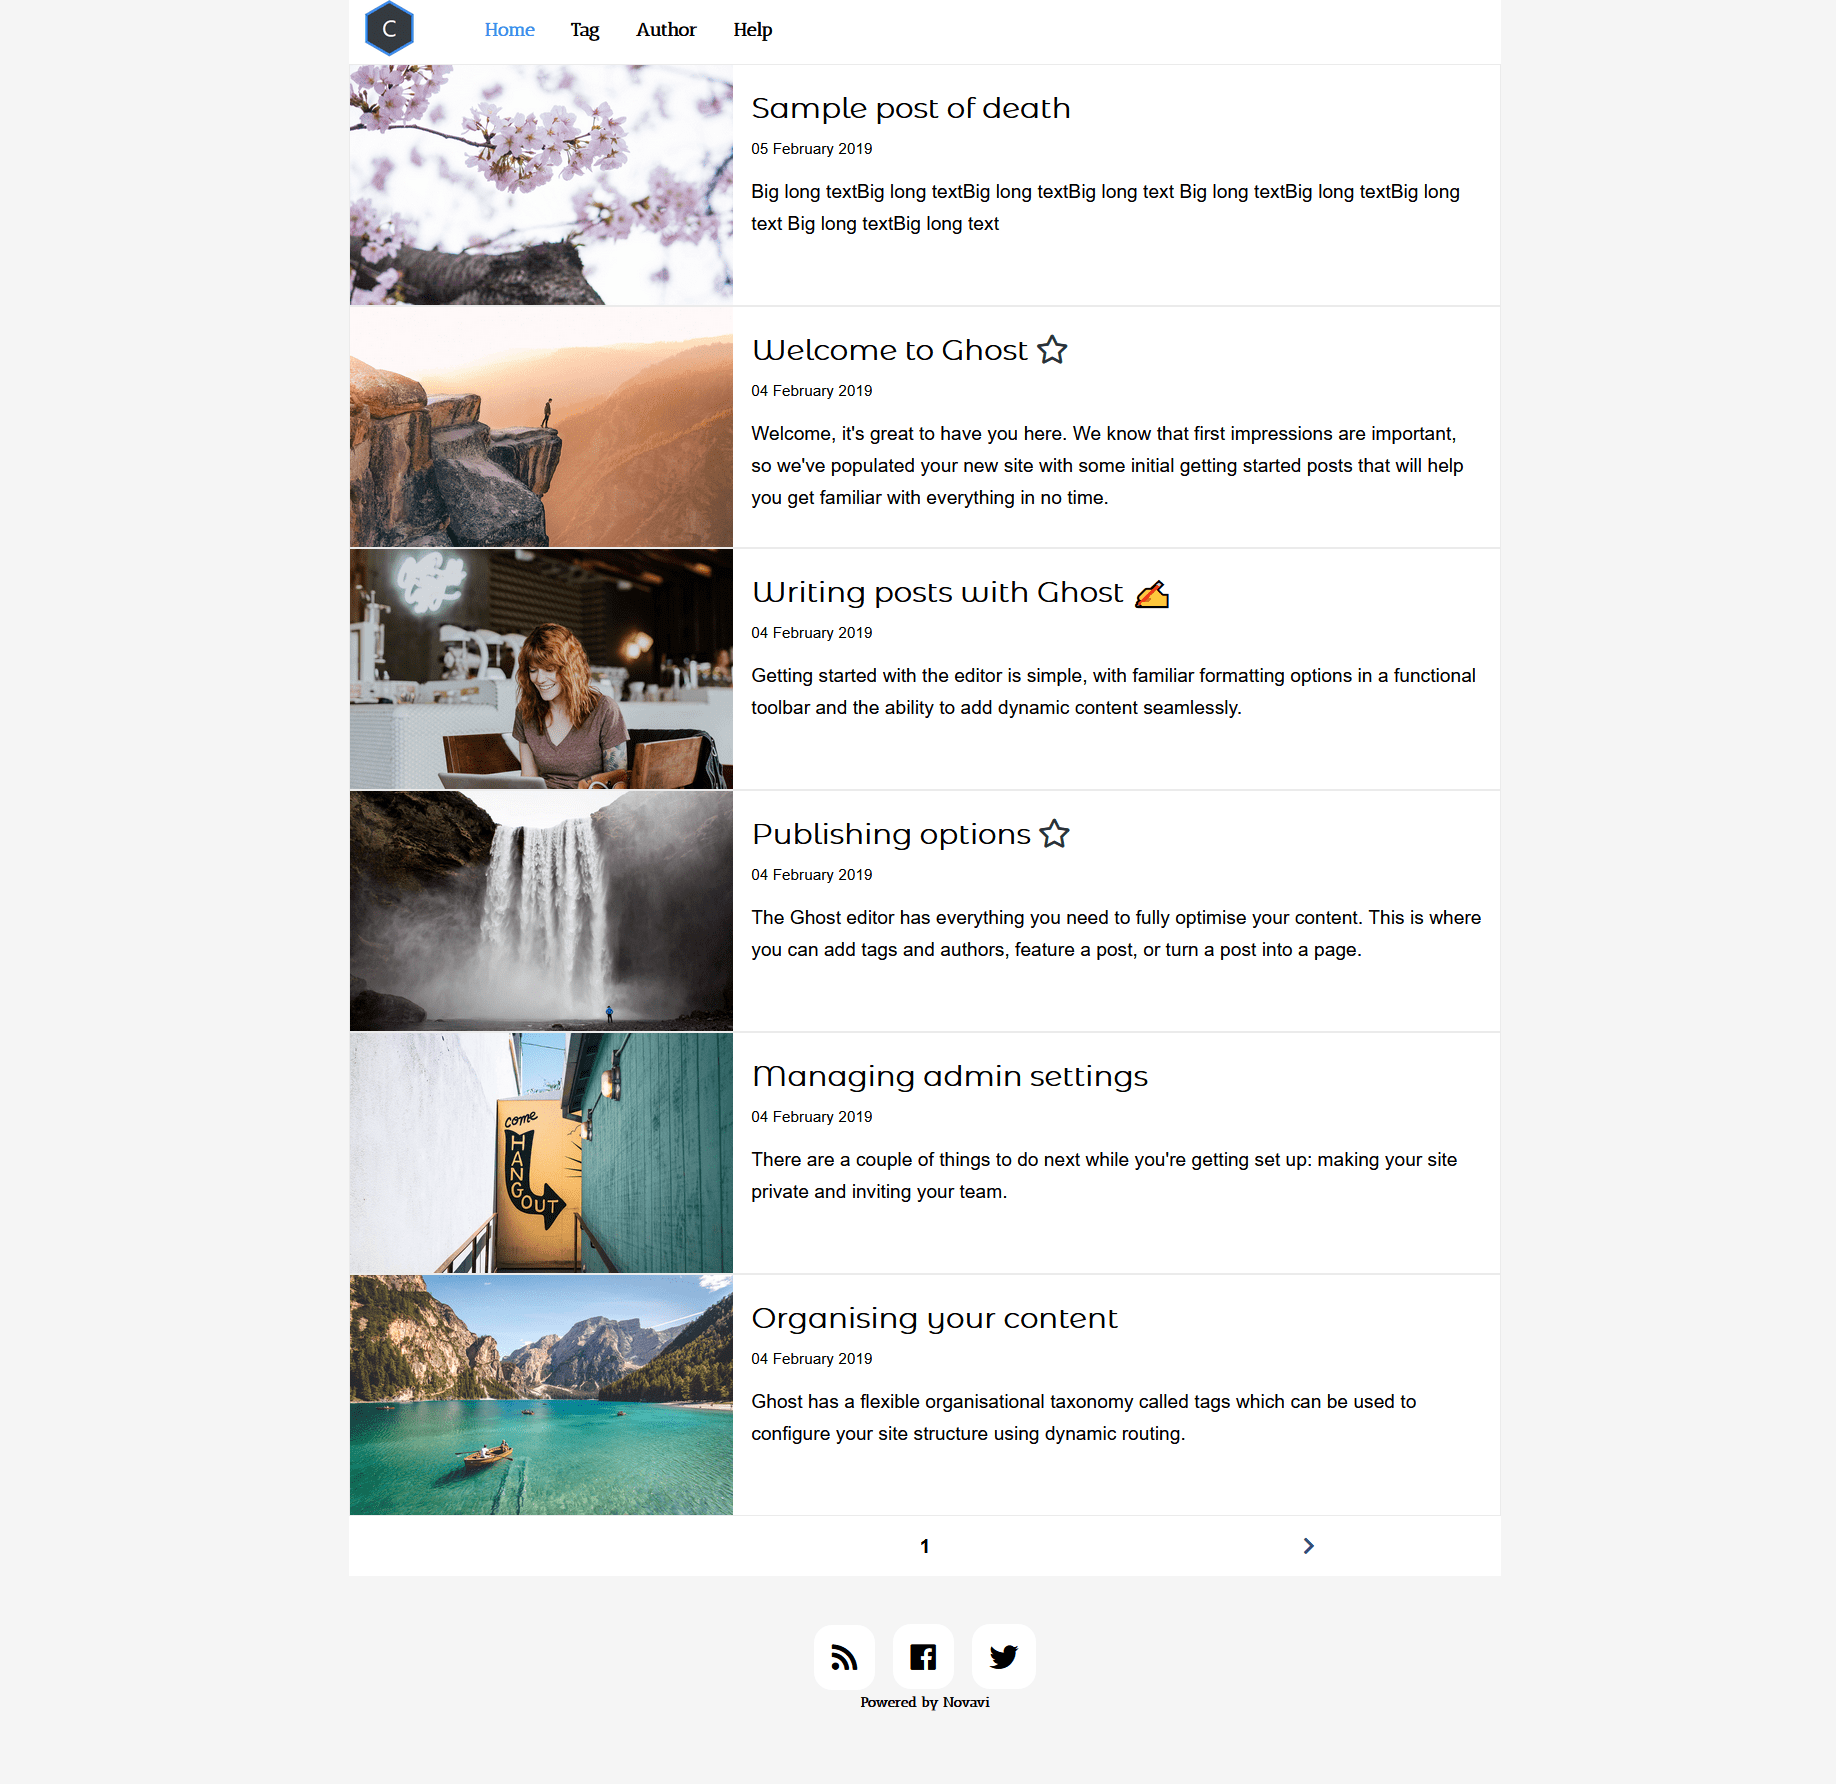
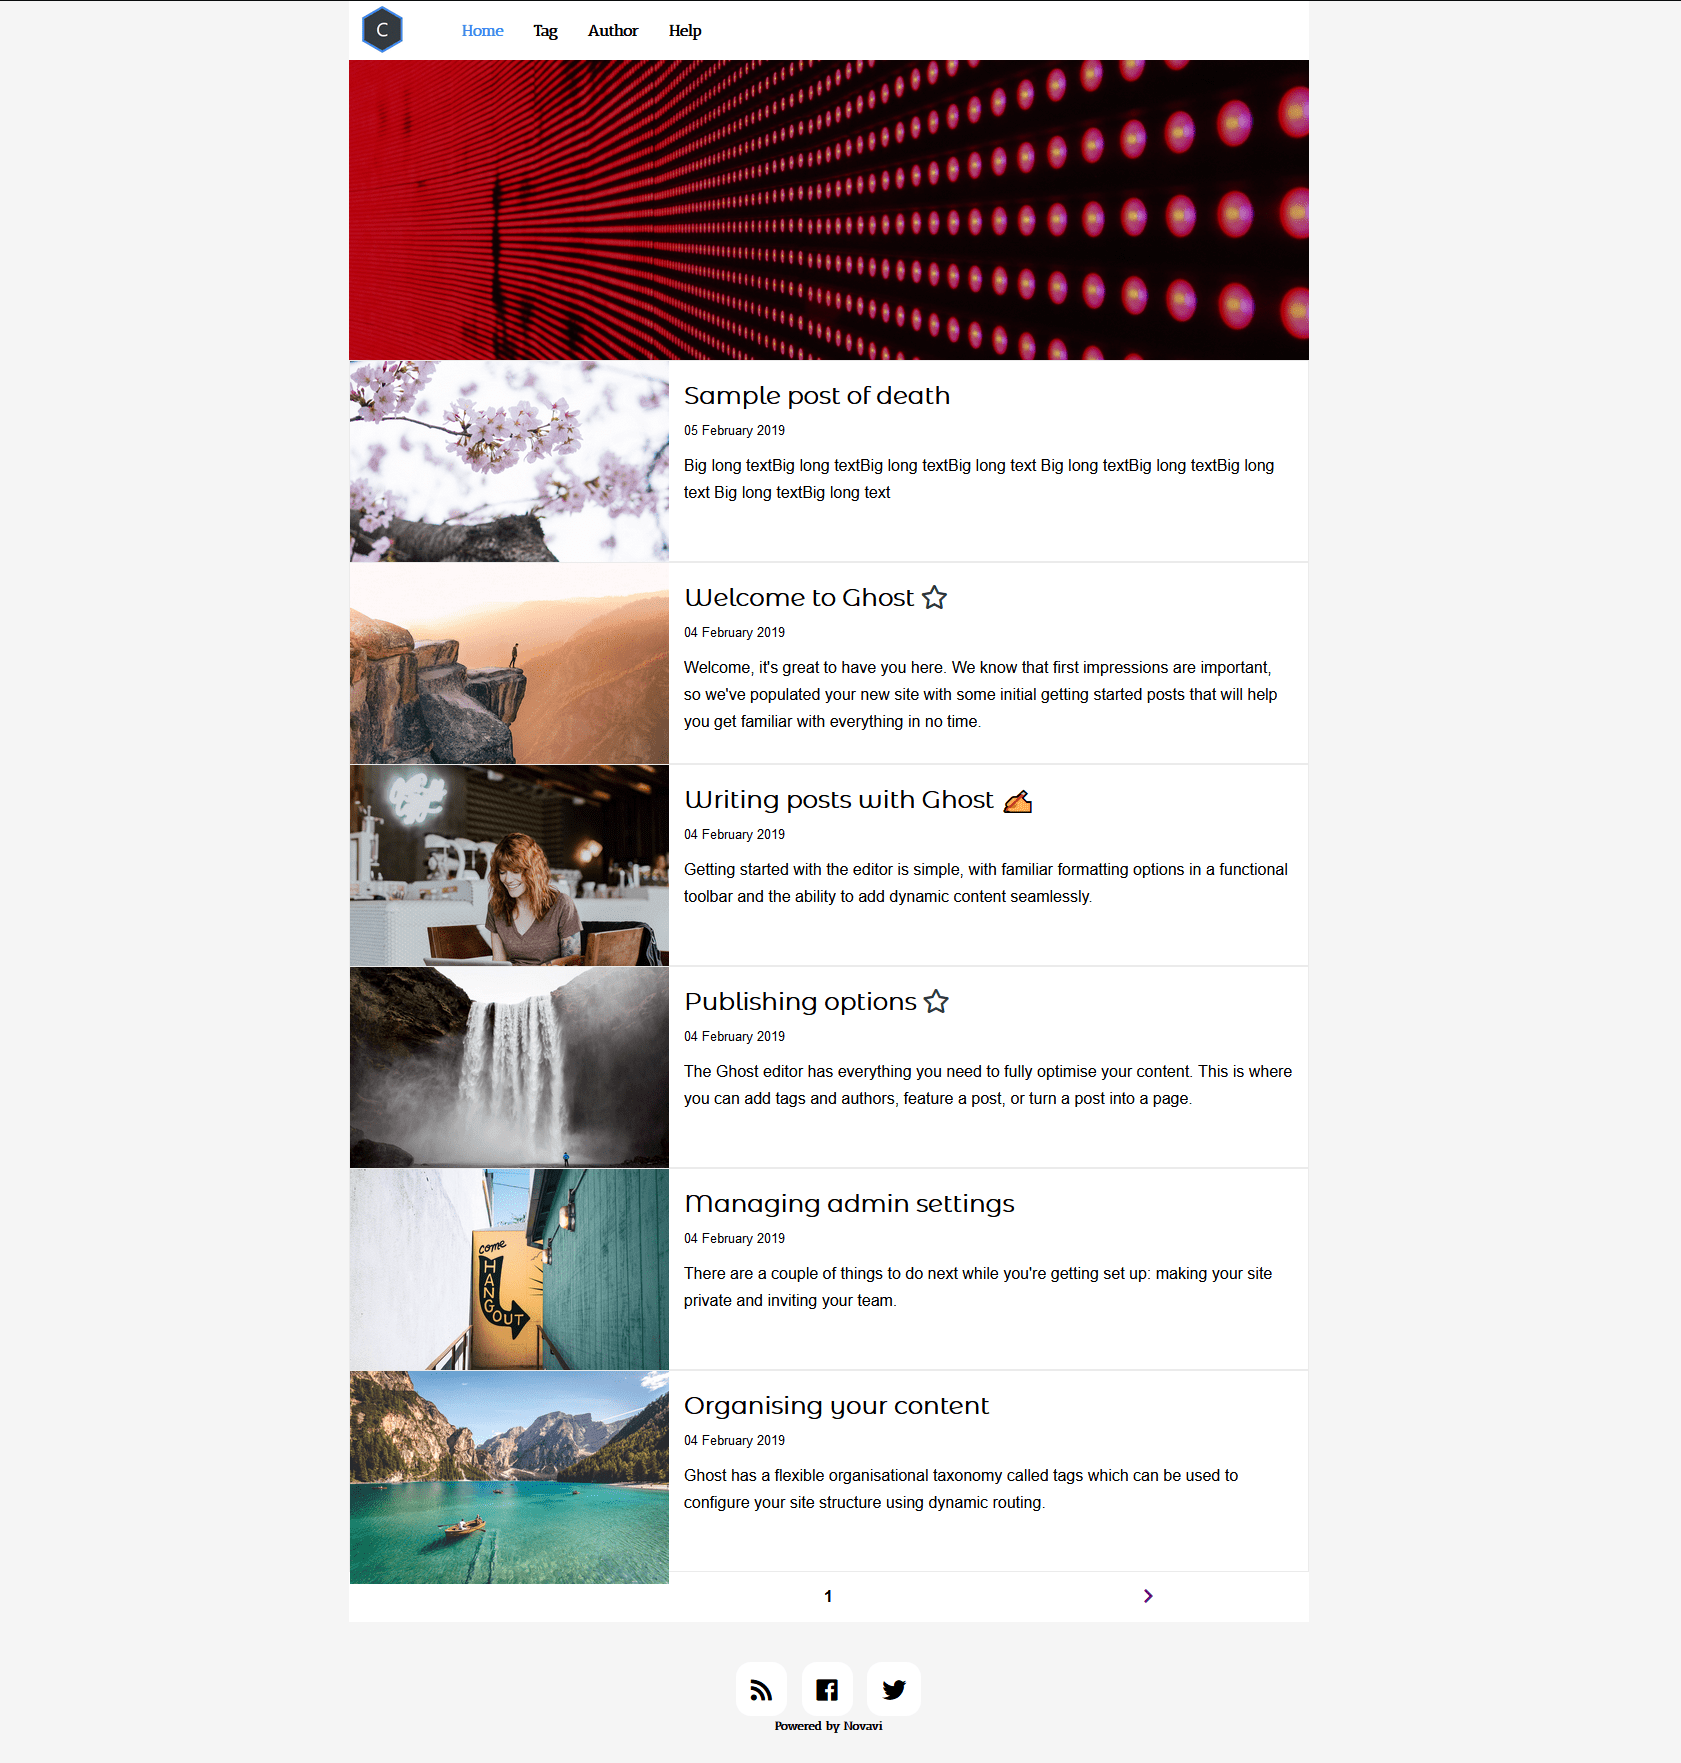
do correct check to show cover_image and update screenshot

Changed region(s): [[0.1856, 0.0, 0.8043, 0.9047], [0.4331, 0.9047, 0.5568, 0.9671]]

diff --git a/assets/css/style.css b/assets/css/style.css
@@ -342,7 +342,7 @@ img.logo {
 .homepage-image {
 	object-fit: cover;
 	width: 100%;
-	max-height: 200px;
+	max-height: 300px;
 }
 
 .collection {
@@ -1178,7 +1178,7 @@ footer {
 
 	.cover-image {
 		position: relative;
-		height: 200px;
+		height: 300px;
 	}
 
 	.text-main {
@@ -1283,16 +1283,16 @@ footer {
 	.tag_heading_home {
 		top: 0px;
 		position: relative;
-		height: 200px;
-		min-height: 200px;
+		height: 300px;
+		min-height: 300px;
 	}
 
 	.tag_heading_post {
 		background-size: cover;
 		background-repeat: no-repeat;
 		background-position: 50% 50%;
-		height: 200px;
-		min-height: 200px;
+		height: 300px;
+		min-height: 300px;
 	}
 
 	.tag_heading > .posttitle.posttitle-author {
@@ -1407,17 +1407,17 @@ footer {
 
 	.tag_heading_post {
 		background-size: cover;
-		height: 200px !important;
-		max-height: 200px !important;
+		height: 300px !important;
+		max-height: 300px !important;
 	}
 
 	.tag_heading {
-		height: 200px !important;
+		height: 300px !important;
 	}
 
 	.tag_heading_home {
-		height: 200px !important;
-		max-height: 200px !important;
+		height: 300px !important;
+		max-height: 300px !important;
 	}
 
 }
